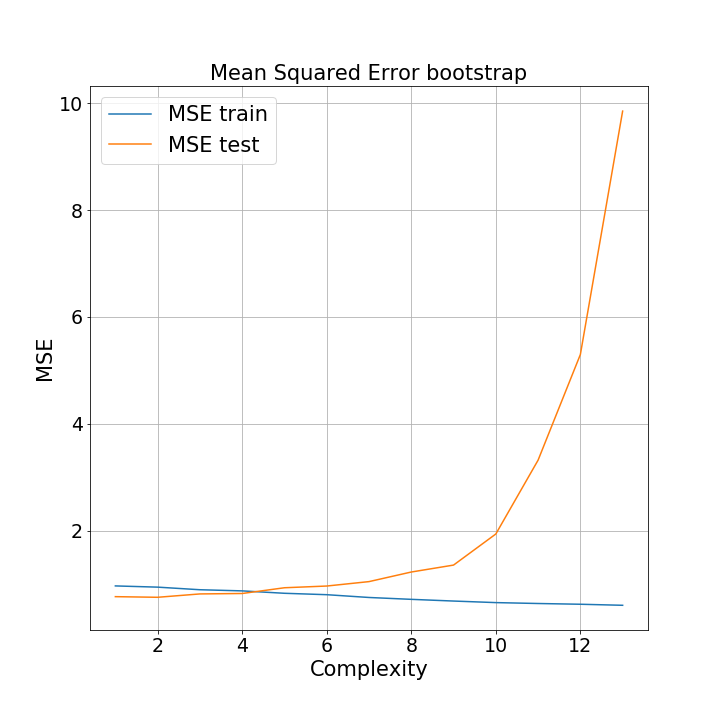
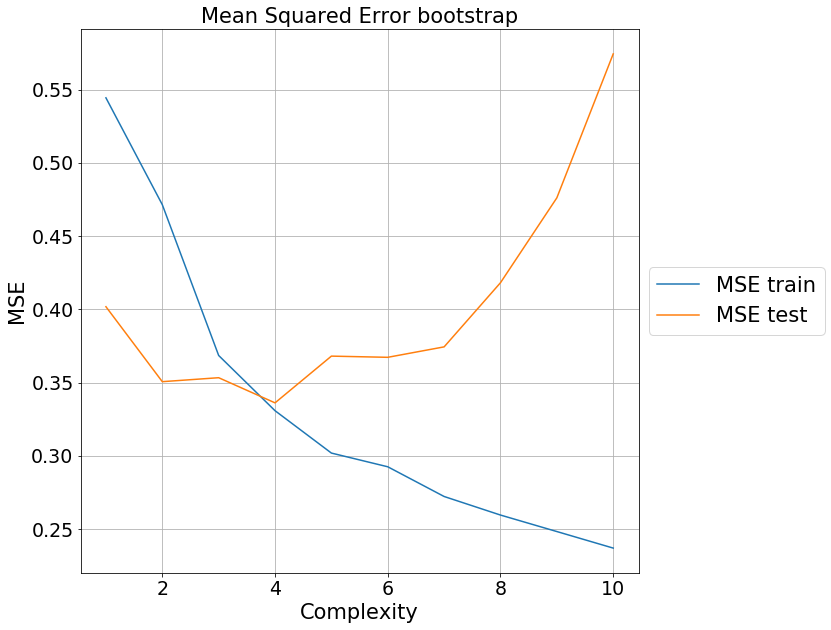
small changes

diff --git a/Project1/ex2.py b/Project1/ex2.py
@@ -11,14 +11,13 @@ np.random.seed(2405)
 N = 500
 x = np.random.uniform(0, 1, N)
 y = np.random.uniform(0, 1, N)
-
 z = FrankeFunction(x, y)
-complex = 13 #complexity of model
+complex = 10 #complexity of model
 X = create_X(x,y,complex)
 noise = np.random.normal(0, 1, size=(z.shape))
-z_noisy = FrankeFunction(x, y) + noise
+z_noisy = FrankeFunction(x, y) + noise*0.2
 
-tts = train_test_split(X,z_noisy,test_size=0.2) #Train test split
+tts = train_test_split(X,z_noisy,test_size=0.1) #Train test split
 
 n_bs = 100 #number of bootstrap cycles
 mse_test = np.zeros((complex, n_bs)) #for storing bootstrap samples' MSE for varying complexity (rows:complexity, columns:bootstrap sample)
@@ -45,7 +44,7 @@ plot_mse(mean_mse_train, mean_mse_test, method_header = "bootstrap")
 
 
 #Bootstrap and plot MSE vs # datapoints
-n_points = np.arange(100,10001,100)
+n_points = np.arange(100,2001,50)
 
 mse_test_n = np.zeros((len(n_points), n_bs)) #for storing bootstrap samples' MSE for varying sample size (rows:sample size, columns:bootstrap sample)
 mse_train_n = np.zeros((len(n_points), n_bs))
@@ -54,11 +53,14 @@ r2_train_n = np.zeros((len(n_points), n_bs))
 
 
 for i in range(len(n_points)): #looping through different sample sizes
-    X_data = X[:n_points[i]]
-    z_data = z_noisy[:n_points[i]]
-    X_sample, z_sample = bootstrap(X_data,z_data)
-    tts = train_test_split(X_sample,z_sample,test_size=0.2)
+    x = np.random.uniform(0, 1, n_points[i])
+    y = np.random.uniform(0, 1, n_points[i])
+    noise = np.random.normal(0, 1, size=(x.shape))
+    X_data = create_X(x,y,4)
+    z_data = FrankeFunction(x, y) + noise*0.2
     for j in range(n_bs): #looping through different bootstrap cycles
+        X_sample, z_sample = bootstrap(X_data,z_data)
+        tts = train_test_split(X_sample,z_sample,test_size=0.2)
         mse_train_n[i,j], r2_train_n[i,j], mse_test_n[i,j], r2_test_n[i,j] = evaluate_method(ols, tts, scale = True, d = 4)
 
 

diff --git a/Project1/functions.py b/Project1/functions.py
@@ -49,6 +49,15 @@ def lasso(X, z, lmb):
     reg.fit(X, z)
     return reg.coef_
 
+def predict_lasso(X_train, X_test, z_train, lmb):
+    reg = Lasso(alpha=lmb, fit_intercept=False)
+    reg.fit(X_train, z_train)
+
+    z_tilde = reg.predict(X_train)
+    z_predict = reg.predict(X_test)
+
+    return z_tilde, z_predict
+
 def var_beta(X): #taking in X = X_train
         return np.diag(X.T @ X)
 
@@ -121,9 +130,11 @@ def evaluate_method(method, train_test_l, d, scale = True, lmb = False, first_co
 
     if lmb != False:
         beta = method(X_train, z_train, lmb)
+        #z_tilde, z_predict = predict_lasso(X_train, X_test, z_train, lmb)
+
     else:
         beta = method(X_train,z_train)
-    #print(beta.shape)
+
     z_tilde = predict(X_train, beta)
     z_predict = predict(X_test, beta)
 
@@ -132,6 +143,7 @@ def evaluate_method(method, train_test_l, d, scale = True, lmb = False, first_co
 
     r2_tilde = r2(z_train, z_tilde)
     r2_predict = r2(z_test, z_predict)
+
     if return_beta == False:
         return mse_tilde, r2_tilde, mse_predict, r2_predict
     else:
@@ -180,14 +192,14 @@ def plot_mse(mse_train, mse_test, method_header = '', plot_complexity = True, la
             plt.savefig(f"MSE_bootstrapDatapoints.png")
             plt.show()
             return
-    plt.legend(fontsize=labelsize)
+    plt.legend(fontsize=labelsize, loc='center left', bbox_to_anchor=(1, 0.5))
     plt.xticks(fontsize=ticksize)
     plt.yticks(fontsize=ticksize)
     #plt.yticks(fonsize=ticksize)
     plt.ylabel("MSE", fontsize=labelsize)
     plt.title(f"Mean Squared Error {method_header}", fontsize=labelsize)
     plt.grid()
-    plt.savefig(f"MSE_{method_header}.png")
+    plt.savefig(f"MSE_{method_header}.png", bbox_inches='tight')
     plt.show()
 
 

diff --git a/Project1/ex5.py b/Project1/ex5.py
@@ -20,9 +20,9 @@ z_noisy = FrankeFunction(x, y) + noise*0.2
 
 tts = train_test_split(X,z_noisy,test_size=0.2) #Train test split
 
-compl = [3,4,5,6]
-nlambda = 15
-lambda_values = np.logspace(-4,0.5,nlambda) #[0.001, 0.005, 0.01, 0.05, 0.1, 0.5, 0.75, 1]
+compl = [3,4,5,6,7,8,9,10]
+nlambda = 100
+lambda_values = np.logspace(-5,-3,nlambda) #[0.001, 0.005, 0.01, 0.05, 0.1, 0.5, 0.75, 1]
 mse_test_lasso = np.zeros((len(compl), len(lambda_values)))
 mse_train_lasso = np.zeros((len(compl), len(lambda_values)))
 r2_test_lasso = np.zeros((len(compl), len(lambda_values)))
@@ -30,14 +30,12 @@ r2_train_lasso = np.zeros((len(compl), len(lambda_values)))
 
 
 
-"""
+
 for i in range(len(compl)):
     for j in range(len(lambda_values)):
         mse_train_lasso[i,j], r2_train_lasso[i,j], mse_test_lasso[i,j], r2_test_lasso[i,j] = evaluate_method(lasso,
         tts, lmb = lambda_values[j], d=compl[i], scale = False)
 
-print(mse_test_lasso)
-"""
 
-
-#plot_mse(mse_train_lasso, mse_test_lasso, method_header = 'lasso', plot_complexity = True, lambdas = lambda_values, complexities = compl)
+plot_mse(mse_train_lasso, mse_test_lasso, method_header = 'lasso',
+    plot_complexity = True, lambdas = lambda_values, complexities = compl)

diff --git a/Project1/ex4.py b/Project1/ex4.py
@@ -20,7 +20,7 @@ z_noisy = FrankeFunction(x, y) + noise*0.2
 
 tts = train_test_split(X,z_noisy,test_size=0.2) #Train test split
 
-compl = [3,4,5,6,7,8]
+compl = [3,4,5,6,7,8, 9, 10]
 nlambda = 100
 lambda_values = np.logspace(-6,-2,nlambda)
 print(lambda_values)
